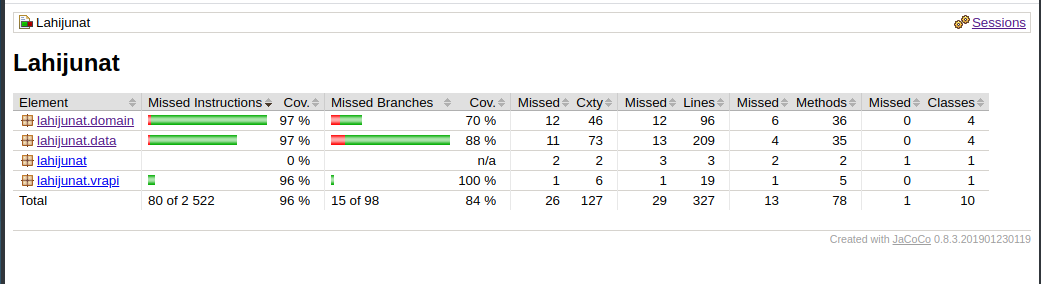
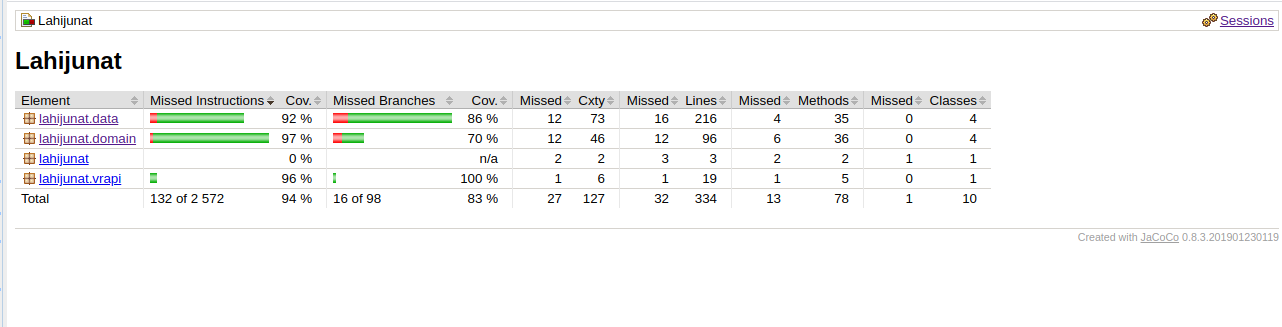
viimeistely

Changed region(s): [[0.0, 0.0, 1.0, 1.0]]

diff --git a/Lahijunat/src/main/java/lahijunat/ui/Gui.java b/Lahijunat/src/main/java/lahijunat/ui/Gui.java
@@ -249,13 +249,13 @@ public class Gui extends Application {
                 "\n" +
                 "Juna -välilehti: Välilehdellä näkyy valitun junan aikataulutiedot. Mikäli juna on myöhässä, näkyy rivilla myös arvioitu lähtöaika. Junan seuraava asema on merkitty X-merkillä. Junan sijainti näkyy kartalla punaisena pisteenä. Tiedot päivittyvät kahden minuutin välein.\n" +
                 "\n" +
-                "Kartta -välilehti: Kaikki lähijunat näkyvät kartalla punaisina pisteinä. Tiedot päivittyvät 15 sekunnin välein.\n" +
+                "Kartta -välilehti: Kaikki lähijunat näkyvät kartalla punaisina pisteinä. Tiedot päivittyvät 10 sekunnin välein.\n" +
                 "\n" +
                 "Haku -välilehti: Kun asema -välilehdellä haetaan junan aikataulutiedot, tallentuu haku automaattisesti hakulistalle. Listalla näkyy 20 viimeistä hakua. Kaksoisklikkaamalla listalla olevaa hakua, tulee junan tiedot juna -välilehdelle.\n" +
                 "\n" +
                 "Virheilmoitukset tulostuvat sovelluksen alareunaan.\n" +
                 "\n" +
-                "Lähijunat -sovellus 1.0\nv. 30.4.2020\nrelease 6.9\n" +
+                "Lähijunat -sovellus 1.0\nv. 1.5.2020\nrelease 7\n" +
                 "\n" +
                 "datalähde: https://www.digitraffic.fi/rautatieliikenne/\n" +
                 "\n" +

diff --git a/Lahijunat/dokumentaatio/testaus.md b/Lahijunat/dokumentaatio/testaus.md
@@ -3,23 +3,23 @@
 ## Yksikkö- ja integraatiotestaus
 Suurimmalle osalle luokkia on luotu yksikkötestit. Testit on jaettu kolmeen luokkaan pakkausten mukaan.
 
-Osa testeistä hyödyntää json muotoista testidataa, joka on tallennettu serc/test kansioon. Testidata on todellista Digitrafic rajapinnan dataa. Osa yksikkötesteistä vaatii internetyhteyden toimiakseen.
+Osa testeistä hyödyntää json muotoista testidataa, joka on tallennettu src/test kansioon. Testidata on todellista Digitrafic rajapinnan dataa. Osa yksikkötesteistä vaatii internetyhteyden toimiakseen.
 
-Käyttöliittymäkerrosta lukuunottamatta sovelluksen testauksen rivikattavuus on 96% ja haarautumakattavuus 84%
+Käyttöliittymäkerrosta lukuunottamatta sovelluksen testauksen rivikattavuus on 94% ja haarautumakattavuus 83%
 
 <img src="testReport.png">
 
 ## Järjestelmätestaus
 Sovellusta on testattu kahdessa ympäristössä: omalla tietokoneella (Kubuntu 19.10) sekä yliopiston cubli ympäristössä. 
 
-Sovelluksen kaikki toiminnallisuudet on testattu manuaalisesti varsin perinpohjaisesti. Sovellukselle ei pysty syöttämään väärää tietoa tai saada sitä kaatumaan. Sovellusta on testattu hakemistossa, johon on ei ole kirjoitusoikeutta. Ohjelmaa on myös testattu tilanteissa, jossa tiedosto tai se puuttuu.
+Sovelluksen kaikki toiminnallisuudet on testattu manuaalisesti varsin perinpohjaisesti. Sovellukselle ei pysty syöttämään väärää tietoa tai saada sitä kaatumaan. Sovellusta on testattu hakemistossa, johon on ei ole kirjoitusoikeutta. Ohjelmaa on myös testattu tilanteissa, jossa tiedosto puuttuu.
 
-Sovellusta ei ole ollenkaan testattu tilanteissa, jossa digitrafic -rajapinta antaa virheellistä tai normaalista poikkeavaa dataa. Ohjelma antaa käyttäjälleen tällöin varsin kryptisiä virheilmoituksia.
+Sovellusta ei ole ollenkaan testattu tilanteissa, jossa digitrafic -rajapinta antaa virheellistä tai normaalista poikkeavaa dataa. Ohjelma antaa käyttäjälleen tällöin todennäköisesti varsin kryptisiä virheilmoituksia.
 
-Mikäli sovelluksen käynnistyessä sen työhakemistossa on korruptoitunut seraches.csv tiedosto, sovellus ei toimi odotetulla tavalla.
+Mikäli sovelluksen käynnistyessä sen työhakemistossa on korruptoitunut searches.csv tiedosto, sovellus ei toimi odotetulla tavalla.
 
 ## Sovellukseen jääneet laatuongelmat
-Sovelluksen pitäisi kyetä tarkistamaan että searches.csv ei ole korruptoitunut, ja tarvittaessa tyhjentää tiedosto.
+Sovelluksen pitäisi kyetä tarkistamaan että searches.csv ei ole korruptoitunut, ja tarvittaessa tyhjentämään tiedosto.
 
 Sovellus ei hae säännöllisesti tietoa pääkaupunkiseudulla olevista asemista, vaikka tämä olisi rajapinnan kautta mahdollista. Se ei siis osaa pävittää mahdollisia uusia asemia tms.
 

diff --git a/Lahijunat/dokumentaatio/arkkitehtuuri.md b/Lahijunat/dokumentaatio/arkkitehtuuri.md
@@ -23,7 +23,7 @@ Käyttöliittymän alaosan teksikenttään tulostetaan mahdolliset datan haussa 
 ## Sovelluslogiikka
 Sovelluksen alimman tason datamallit luo domain -pakkauksen luokat. SearchItem tyypinen olio on yksi rivi hakulistassa. DepartingTrain tyyppinen olio on yksi rivi asemalta lähtevien junien listassa. TrainStop tyyppinen olio on puolestaan yksi rivi junan aikataulussa. 
 
-Station luokka poikkeaa muista tämän pakkauksen luokista. Se sisältää vain metodeja ja dataa joita muut luokat hyödyntävät. Luokassa on tiedot pääkaupunkiseudun juna-asemien nimistä, lyhytnimistä, koodeista ja sijainneista. Tämän luokan metodien avulla voi esimerkiksi selvittää mikä on tietyn koodin omaavan juna-aseman todellinen nimi. 
+Station luokka poikkeaa muista tämän pakkauksen luokista. Se sisältää vain metodeja ja dataa, joita muut luokat hyödyntävät. Luokassa on tiedot pääkaupunkiseudun juna-asemien nimistä, lyhytnimistä, koodeista ja sijainneista. Tämän luokan metodien avulla voi esimerkiksi selvittää mikä on tietyn koodin omaavan juna-aseman todellinen nimi. 
 
 Domain -pakkauksen luokkia hyödyntävät korkeamman tason data -pakkauksen luokat, jotka koostavat käyttäjälle näytettävän datan. Ne muokkaat datan myös näytettävään muotoon, sekä sisältävät raakadatan käsittelyyn ja päivitykseen tarpelliset toiminnallisuudet.
 
@@ -54,4 +54,22 @@ Aseman koodi välitetään käynnistyksen yhteydessä luodulle StationTable luok
 Jokaista lähtevää junaa kohden luodaan yksi DepartingTrain luokan olio.
 
 <img src="sekvenssikaavio.png">
+
+### Junan aikataulutietojen haku
+
+Ohjelman käynnistyessä luodaan uusi TrainTable ja TrainMap luokan oliot, jotka kiinnitetään näkyviin Juna -välilehteen. 
+
+Kun Asema -välilehdellä tai Haku -välilehdellä klikataan junan tietoja, pävitetään TrainTable ja TrainMap luokan olioden tieto junasta. Tällöin olio päivittää kyseisen junan tiedot VR:N avoimen rajapinnan kautta.
+
+Kun välilehti on valittuna, kutsuu käyttöliittymä olioiden päivitysmetodia kahden minuutin välein. 
+
+### Junat kartalla
+
+Ohjelman käynnistyessä luodaan uusi TrainMap luokan olio, jotka kiinnitetään näkyviin Kartta -välilehteen. 
+
+Kun välilehti on valittuna, kutsuu käyttöliittymä olioiden päivitysmetodia 10 sekunnin välein. 
+
+### Aiemmat haut
+
+Ohjelman käynnistyessä luodaan uusi SearchTable luokan olio, jotka kiinnitetään näkyviin Haku -välilehteen. Tämän jälkeen kutsutaan init -metodia, joka lataa haut tiedostosta. Olion tietoja päivitetään ohjelman muista osista.
 

diff --git a/Lahijunat/dokumentaatio/vaatimusmaarittely.md b/Lahijunat/dokumentaatio/vaatimusmaarittely.md
@@ -4,27 +4,27 @@
 Sovelluksella saa reaaliaikaista tietoa VR:n lähijunien liikkeistä ja aikatauluista pääkaupunkiseudulla.
 
 ## Käyttäjät
-Sovelluksella on vain yksi käyttäjäryhmä: normaalit käyttäjät jotka hakevat tietoa lähijunista.
+Sovelluksella on vain yksi käyttäjäryhmä: normaalit käyttäjät, jotka hakevat tietoa lähijunista.
 
 ## Käyttöliittymä
 Käyttöliittymä koostuu viidestä eri sivusta/lehdestä: tietyn aseman lähtevät junat, tietyn junan liikumisen seuraaminen, viimeisimmät haut, kaikkien junien paikannus kartalla, käyttöohje.
 
 ## Suunnitellut toiminnallisuudet
-Asematiedot: Käyttäjä valitsee aseman, ja sovellus näyttää seuraavan parin tunnin junien lähdöt valitulta asemalta: aikautalun mukainen lähtöaika, todelinen lähtöaika, raide, junan tunnus. Mikäli juna on peruutettu, sovellus näyttää syykoodin.
+Asematiedot: Käyttäjä valitsee aseman, ja sovellus näyttää seuraavan parin tunnin junien lähdöt valitulta asemalta: aikataulun mukainen lähtöaika, ennakoitu lähtöaika, raide, junan tunnus. Mikäli juna on peruutettu, sovellus näyttää syykoodin.
 Kun käyttäjä valitsee jonkin junista, tämä toimii automaattisena valintana "junan tiedot" välilehdelle.
 
 Junan tiedot: Käyttäjä valitsee junan asema -välilehdeltä, jonka jälkeen sovellus näyttää junan reitin asemat, millä kohtaa juna on tällä hetkellä menossa sekä missä kohtaa kartalla juna on menossa.
 
 Käyttäjä voi omalla välilehdellä tarkastella kaikkien pääkaupunkiseudun alueella liikkuvien junien liikkeitä.
 
-Ohjelma tallentaa käyttäjän viimeiset kymmenen hakua (asemat ja junat). Nämä on näkyvillä omalla lehdellä, josta haun voi uusia klikkaamalla sitä.
+Ohjelma tallentaa käyttäjän viimeiset 20 hakua. Nämä on näkyvillä omalla lehdellä, josta haun voi uusia klikkaamalla sitä.
 
 ## Toiminnallisuuksien toteutus
 - Viikko 3: Asematietojen haku tekstikäyttöliittymällä
 - Viikko 4: Lisätty graafinen käyttöliittymä, junan aikautaulutiedot -välilehti ja ohje -välilehti. 
-- Viikko 5: Lisätty oma kartta -välilehti, sekä karttanäkymä junan aikautalut -välilehdelle
+- Viikko 5: Lisätty kartta -välilehti, sekä karttanäkymä junan aikautalut -välilehdelle
 - Viikko 6: Aiemmat haut -välilehti
-- Viikko 7: Viimeistelyä
+- Viikko 7: Viimeistelyä ja testikattavuuden parantaminen
 
 ## Jatkokehtiysideoita
 - laajentaminen pääkaupunkiseudun ulkopuolelle

diff --git a/Lahijunat/dokumentaatio/kayttoohje.md b/Lahijunat/dokumentaatio/kayttoohje.md
@@ -1,10 +1,10 @@
 # Käyttöohje
-Ohjelmalla käyttäjä voi selailla VR:n pääkaupunkiseudun lähijunien aikatauluja ja todellisia kulkuaikoja. Sovelluksella voi seurata myös junien liikkeitä kartalla.
+Ohjelmalla käyttäjä voi selailla VR:n pääkaupunkiseudun lähijunien aikatauluja sekä ennakoituja ja todellisia kulkuaikoja. Sovelluksella voi seurata myös junien liikkeitä kartalla.
 
 Ohjelma vaatii toimiakseen internetyhteyden.
 
 ## Aloitus
-Lataa tiedosto [lahijunat.jar](https://github.com/vuorenkoski/ot-harjoitustyo/releases/tag/viikko6)
+Lataa tiedosto [lahijunat.jar](https://github.com/vuorenkoski/ot-harjoitustyo/releases/tag/viikko7)
 
 Ohjelma olettaa, että käyttäjällä on kirjoitusoikeus ohjelman käynnistyshakemistoon. Se luo hakemistoon ensimmäisen käynnistyksen yhteydessä searches.csv tiedoston, johon se tallentaa tehtyjä hakuja.
 
@@ -26,7 +26,7 @@ Kun junan tietoja kaksoisklikkaa, tulostuu kyseiset junan tiedot Juna -välilehd
 ### Juna -välilehti
 Välilehdellä näkyy valitun junan aikataulutiedot. Junan seuraava asema on merkitty X-merkillä.
 
-Mikäli junan ennakoidaan myöhästyvän aikataulun mukaisesta lähtöajasta, näkyy ennakoitu aika toisessa sarakkeessa. Mikäli juna on peruttu, aikataulua ei tulostu, vaan sen sijasta tieto junan peruutuksesta.
+Mikäli junan ennakoidaan myöhästyvän aikataulun mukaisesta lähtöajasta, näkyy ennakoitu aika toisessa sarakkeessa. Mikäli juna on peruttu, aikataulua ei tulostu, vaan sen sijasta näytetään tieto junan peruutuksesta.
 
 Junan sijainti näkyy oikealla olevassa kartassa punaisena pisteenä. Tiedot päivittyvät kahden minuutin välein.
 
@@ -34,4 +34,4 @@ Junan sijainti näkyy oikealla olevassa kartassa punaisena pisteenä. Tiedot pä
 Välilehdellä näkyy 20 viimeisintä hakua. Kun haun tietoja kaksoisklikkaa, tulostuu kyseiset junan tiedot Juna -välilehdelle ja sovelluksen näkymä siirtyy siihen välilehteen.
 
 ### Kartta -välilehti
-Kaikki lähijunat näkyvät kartalla punaisina pisteinä. Tiedot päivittyvät 15 sekunnin välein. Mustat pisteet ovat juna-asemia.
+Kaikki lähijunat näkyvät kartalla punaisina pisteinä. Tiedot päivittyvät 10 sekunnin välein. Mustat pisteet ovat juna-asemia.

diff --git a/README.md b/README.md
@@ -27,8 +27,10 @@ Lisätty aiemmat haut -välilehti ja toiminnallisuus.
 
 [Release viikko 6](https://github.com/vuorenkoski/ot-harjoitustyo/releases/tag/viikko6)
 
-### Release viikko 6
-Viimeistelyä
+### Release viikko 7
+Viimeistelyä ja testauksen parantelu
+
+[Release viikko 7](https://github.com/vuorenkoski/ot-harjoitustyo/releases/tag/viikko7)
 
 ## Viikkotehtävät
 

diff --git a/Lahijunat/dokumentaatio/tyoaikakirjanpito.md b/Lahijunat/dokumentaatio/tyoaikakirjanpito.md
@@ -19,6 +19,7 @@
 | 13.4. | 4    | virittelyä+dokumentaatiota |
 | 24.4. | 4    | viikko6 viimeistelyä |
 | 29.4. | 3    | testauksen virittelyä |
+| 1.5. | 3    | viimeistely |
 |    |    | | 
-| yht   | 73   | | 
+| yht   | 76   | | 
 
